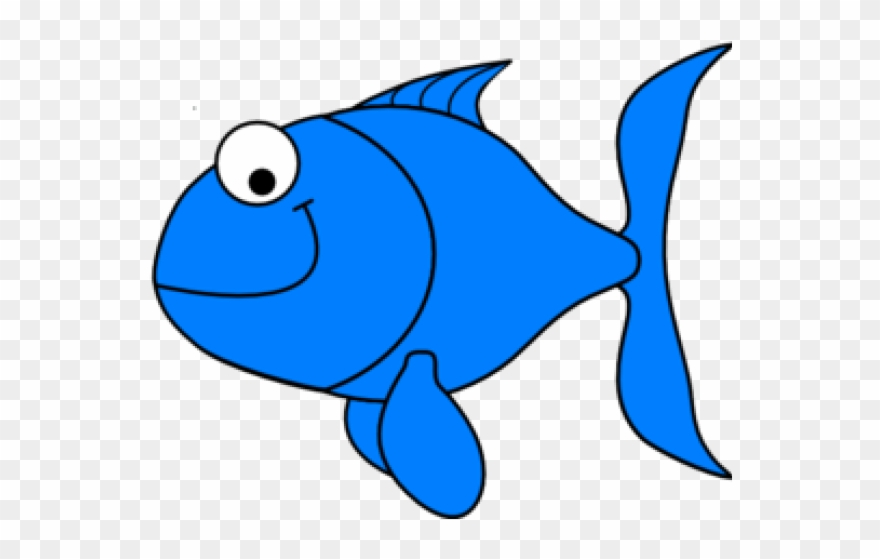
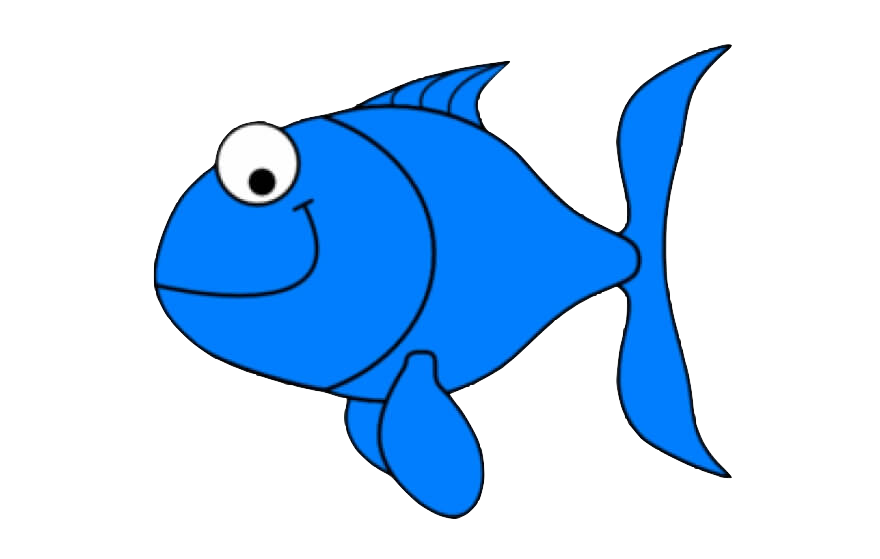
transparent fish, move to right of screen

diff --git a/src/js/app.js b/src/js/app.js
@@ -380,21 +380,39 @@ if (Store.view.showStaff.bass === true) {
 // SPRITE LOGO //
 /////////////////
 // TODO: how to maintain png transparency
+// TODO: bubble animation -  https://medium.com/@soffritti.pierfrancesco/animations-with-alpha-textures-in-three-js-52a33654e137 
+// https://github.com/mrdoob/three.js/blob/master/examples/webgl_materials_cubemap_dynamic.html
+// 
+
+let robotSprite;
+let robotPos;
 
 if (Store.view.showLogoSprite === true) {
 
     // const spriteAssetPath = "assets/logo/ai_robot_1.jpeg";
     const spriteAssetPath = Store.view.instrumentConfig.assetPath;
 
-    var spriteTexture = Store.loader.load(spriteAssetPath);
+    const spriteTexture = Store.loader.load(spriteAssetPath);
     // var spriteTexture = Store.loader.load('/assets/ai_robot_1.jpg', onTextureLoaded);
-    var spriteMaterial = new THREE.SpriteMaterial({
-        map: spriteTexture,
-        color: 0xffffff
-    });
-    var robotSprite = new THREE.Sprite(spriteMaterial);
 
-    const robotPos = Store.view.instrumentConfig.location;
+    // https://threejs.org/docs/#api/en/materials/SpriteMaterial.color
+    const spriteMaterial = new THREE.SpriteMaterial({
+        map: spriteTexture,
+        transparent: true,
+        // opacity: 0.5,
+        // color: 0xffffff,
+        // color: 0x000000,
+        rotation: 2,
+    });
+
+    // spriteMaterial.rotation.x = Math.PI / 2; // err
+
+    // const robotSprite = new THREE.Sprite(spriteMaterial);
+    robotSprite = new THREE.Sprite(spriteMaterial);
+
+    // const robotPos = Store.view.instrumentConfig.location;
+    robotPos = Store.view.instrumentConfig.location;
+
     robotSprite.position.set(...robotPos);
 
     // robotSprite.position.set(-10, 8, 0);
@@ -442,6 +460,19 @@ let animate = () => {
         // https://github.com/felixmariotto/three-screenshake
         Store.screenShake.update(Store.camera);
     }
+
+    // console.log(robotSprite.position);
+    if (robotPos[2] < 20) {
+        robotPos[0] += 0.01; // back / front
+        robotPos[2] += 0.1;
+    } else  {
+
+    }
+    
+
+    robotSprite.position.set(...robotPos);
+
+    // // //
 
     physics.updateBodies(Store.world);
     Store.world.step(Store.fixedTimeStep);

diff --git a/src/js/Store.js b/src/js/Store.js
@@ -217,11 +217,13 @@ export default {
             // assetPath: 'assets/logo/ai_robot_1.jpeg',
             assetPath: 'assets/fish/blue_fish_01.png',
             // assetPath: 'assets/fish/red_fish_01.jpg',
+            // assetPath: 'assets/fish/green_fish_01.png',
+            // assetPath: 'assets/fish/green_fish_02.png',
 
             // location: [-5, 2, 0],
             // location: [-20, 18, 0],
             // location: [-20, 30, 0],
-            location: [-20, 5, 0],
+            location: [-20, 5, -10],
         },
 
         songAutoStart: true,

diff --git a/index.html b/index.html
@@ -49,6 +49,7 @@
         <img src="assets/sheet-music/twinkle-star_sheet-music.png" alt="sheet music">
     </div> -->
     
+    <!--<img src="assets/fish/green_fish_02.png">-->
 
     <script src="dist/bundle.js"></script>
 
